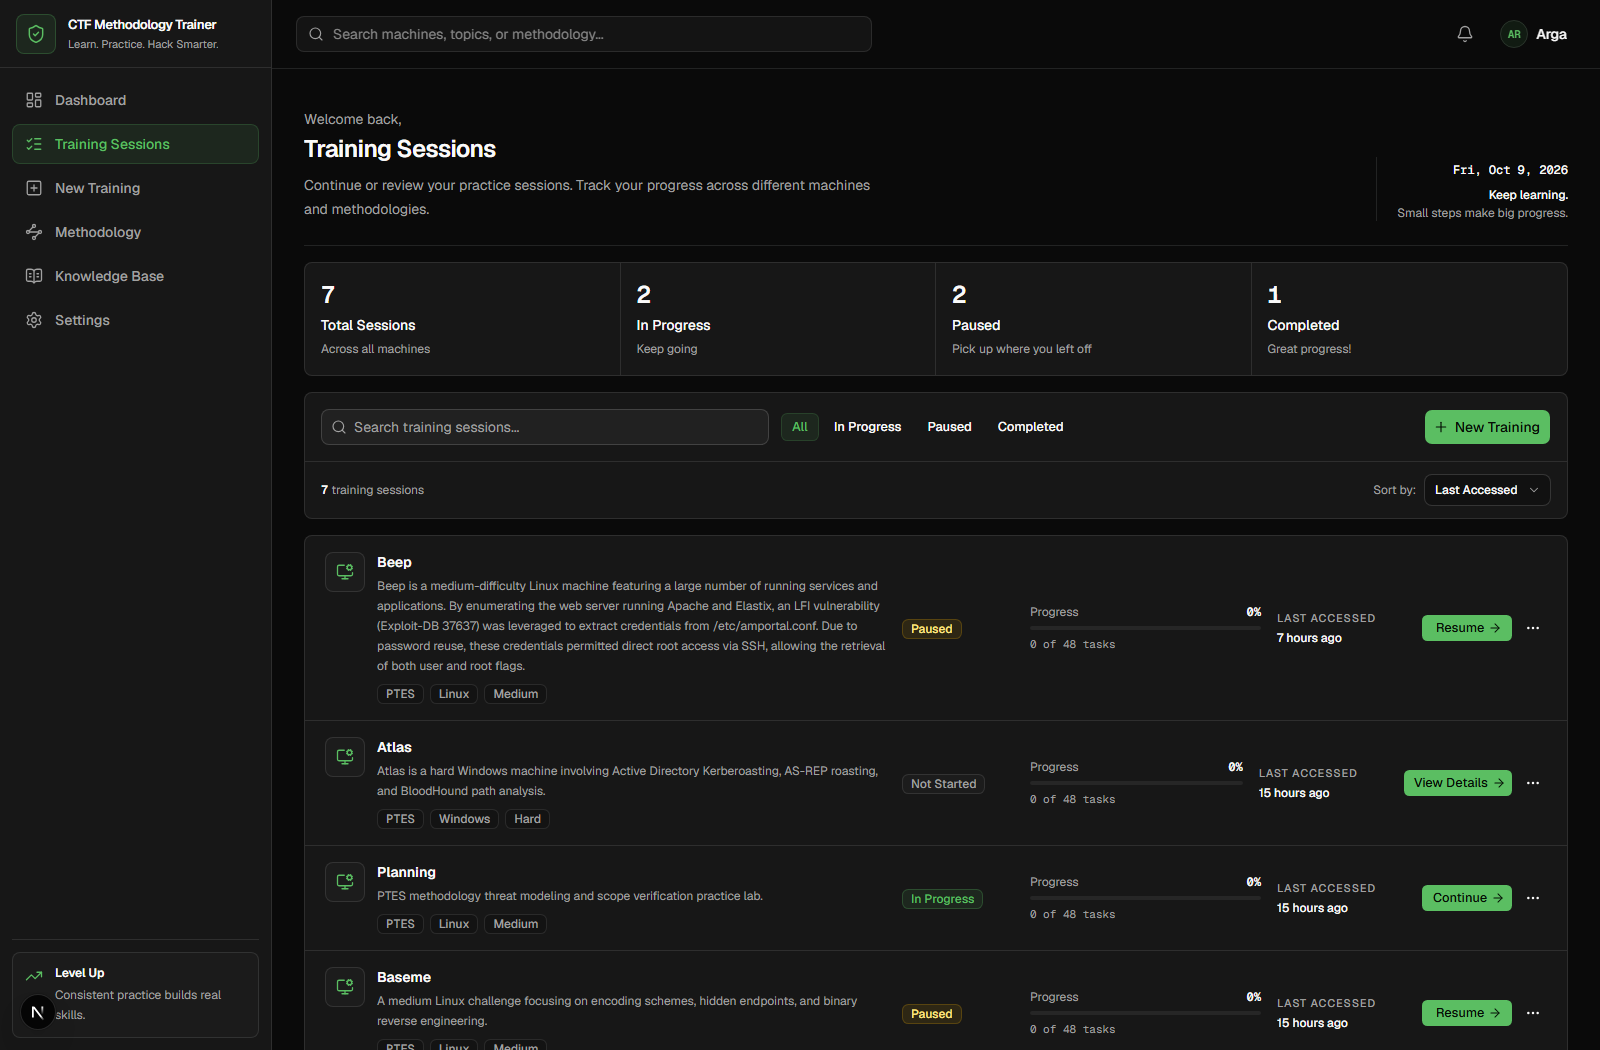
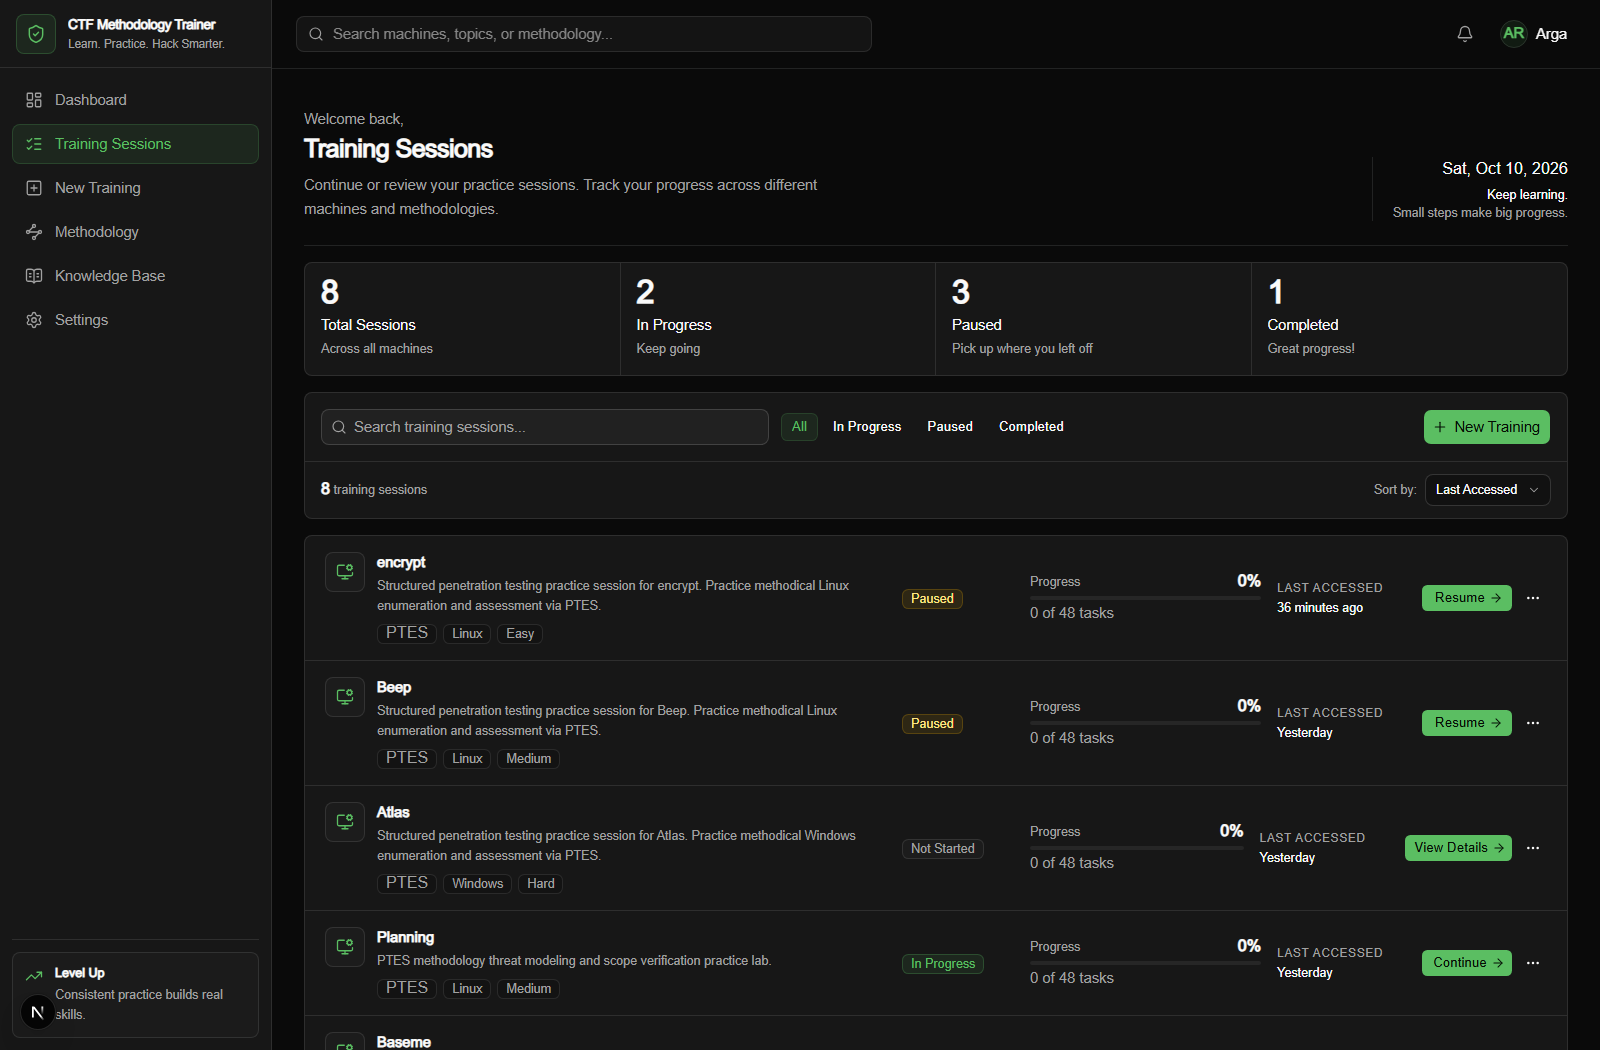
fix(security): prevent exploit path spoilers in training session cards

diff --git a/src/modules/training/service.ts b/src/modules/training/service.ts
@@ -497,6 +497,61 @@ export type ListTrainingSessionsResult = {
   metrics: TrainingSessionMetric[];
 };
 
+/**
+ * Detects if a summary text contains exploit details, CVEs, credentials, or solution spoilers.
+ */
+export function containsExploitSpoilers(text: string): boolean {
+  const spoilerPatterns = [
+    /\bexploit(ing|ed|s)?\b/i,
+    /\bvulnerabilit(y|ies)\b/i,
+    /\bcve-\d+/i,
+    /\bexploit-db\b/i,
+    /\binitial foothold\b/i,
+    /\bprivilege escalation\b/i,
+    /\broot (access|was achieved|flag)\b/i,
+    /\buser flag\b/i,
+    /\bcredentials? (were|was)? leaked?\b/i,
+    /\bpassword reuse\b/i,
+    /\bplaintext (credentials?|passwords?)\b/i,
+    /\bextracted credentials?\b/i,
+    /\b(sqli|sql injection|idor|lfi|rfi|buffer overflow|kerberoasting|as-rep|bloodhound|suid|cap_setuid)\b/i,
+    /\/(etc|var|tmp|root)\/[a-z0-9_.-]+/i,
+  ];
+  return spoilerPatterns.some((pattern) => pattern.test(text));
+}
+
+/**
+ * Ensures session description on cards never leaks exploit solutions prior to completion.
+ */
+export function formatSpoilerSafeSessionDescription(
+  session: { name: string; status: string; targetIp?: string | null },
+  profile?: { summary?: string | null; os?: string | null; difficulty?: string | null } | null,
+): string {
+  if (session.targetIp) {
+    return `Target host ${session.targetIp} assessed using PTES methodology.`;
+  }
+
+  // If completed, summary is allowed
+  if (session.status === "completed") {
+    if (profile?.summary) {
+      return profile.summary;
+    }
+    return `Completed penetration testing session for ${session.name}. Full attack path and methodology review unlocked.`;
+  }
+
+  // For uncompleted sessions (not_started, in_progress, paused), check if summary is spoiler-free
+  if (profile?.summary && !containsExploitSpoilers(profile.summary)) {
+    return profile.summary;
+  }
+
+  // Safe default for uncompleted sessions
+  const osLabel =
+    profile?.os && profile.os !== "unknown"
+      ? `${profile.os.charAt(0).toUpperCase() + profile.os.slice(1)} `
+      : "";
+  return `Structured penetration testing practice session for ${session.name}. Practice methodical ${osLabel}enumeration and assessment via PTES.`;
+}
+
 export async function listTrainingSessions(): Promise<ListTrainingSessionsResult> {
   const loaded = await repository.loadAllTrainingSessions();
 
@@ -528,11 +583,7 @@ export async function listTrainingSessions(): Promise<ListTrainingSessionsResult
         : `${completedChecks} of ${checks.length} tasks`;
     const lastAccessedDate = session.updatedAt ? new Date(session.updatedAt) : new Date(session.createdAt);
 
-    const description = session.targetIp
-      ? `Target host ${session.targetIp} assessed using PTES methodology.`
-      : profile?.summary
-        ? profile.summary
-        : `Structured penetration testing practice session for ${session.name}.`;
+    const description = formatSpoilerSafeSessionDescription(session, profile);
 
     return {
       id: session.id,
@@ -627,11 +678,7 @@ export async function getDashboardData(): Promise<DashboardData> {
     const totalPhases = phases.length > 0 ? phases.length : 7;
     const status = mapSessionStatus(session.status) as DashboardSessionStatus;
 
-    const description = session.targetIp
-      ? `Target host ${session.targetIp} assessed using PTES methodology.`
-      : profile?.summary
-        ? profile.summary
-        : `Structured penetration testing practice session for ${session.name}.`;
+    const description = formatSpoilerSafeSessionDescription(session, profile);
 
     featuredSession = {
       id: session.id,

diff --git a/src/modules/facts/prompts.ts b/src/modules/facts/prompts.ts
@@ -8,6 +8,10 @@ CRITICAL INSTRUCTIONS & GROUNDING RULES:
 4. UNKNOWN VALUES: If the operating system or difficulty level is not explicitly stated or discernible, set them to "unknown".
 5. PROTOCOL ACCURACY: Standardize network service names (e.g., "http", "ssh", "smb", "ftp", "dns", "snmp", "mysql", "redis").
 6. ATTACK STEPS ORDER: Extract the attack path in chronological order of compromise: reconnaissance -> initial_access -> enumeration -> lateral_movement -> privilege_escalation -> objective.
+7. SPOILER-FREE MACHINE SUMMARY INVARIANT: The "summary" field is visible to the learner before and during practice. It MUST be 100% spoiler-safe:
+   - Provide ONLY a high-level operational overview of the machine OS, architecture, and general scenario (e.g., "A Linux target running standard web and network services configured for methodology practice.").
+   - NEVER mention specific vulnerabilities, CVEs, credentials, passwords, usernames, exploit chains, sensitive file paths, or flags.
+   - All exploit methods, vectors, and solutions MUST reside strictly within "attackSteps" and "vulnerabilities", NEVER in "summary".
 
 REQUIRED JSON OUTPUT FORMAT:
 You MUST return a JSON object with this EXACT structure (use these exact keys):
@@ -77,7 +81,7 @@ You MUST return a JSON object with this EXACT structure (use these exact keys):
       "provenance": "Exact citation from writeup"
     }
   ],
-  "summary": "Concise 2-4 sentence summary of the machine and exploitation path."
+  "summary": "Concise 1-2 sentence high-level overview of the target lab environment strictly WITHOUT spoilers, vulnerabilities, credentials, flags, or exploitation steps."
 }
 
 Do not include any conversational text or markdown code fences outside the JSON.`;
